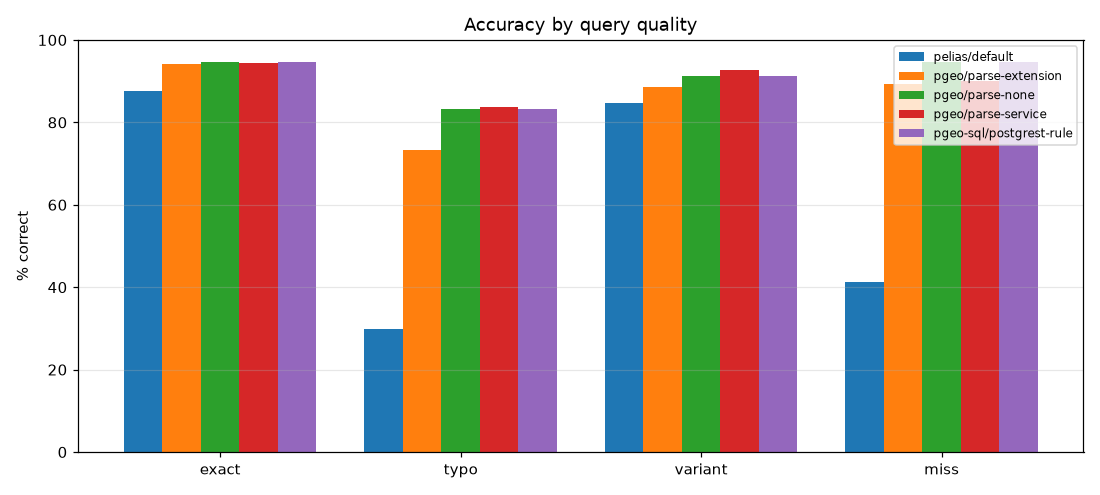
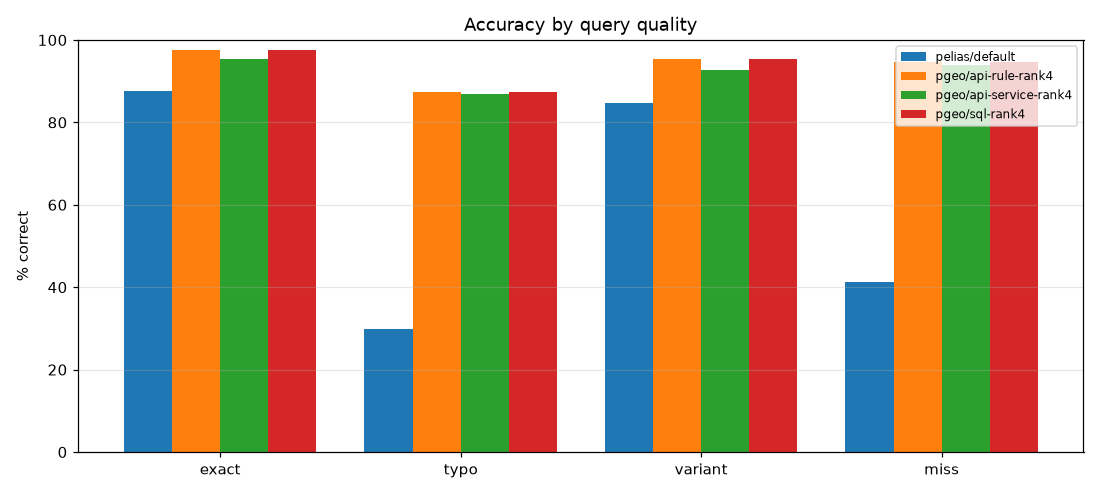
pgeo: town-aware name ranking (accuracy 93.1% -> 95.8%)
- bare town is a name target only when no name was parsed
- queried town resolved to a location: tie-break anchor and distance-based agreement
- admin results auto-agree only for bare-town queries
- ambiguity ignores venues that share a tied town's name

Venues 81% -> 94%, lakes/summits 86% -> 95% (exact). Fuzz F0 98%.
Also records the standard placeholder memory (0.8 GB) used by the Pelias reruns.

diff --git a/tests/load/run_matrix.py b/tests/load/run_matrix.py
@@ -41,7 +41,7 @@ BREAK_FACTOR = 5  # p95 above 5x target counts as broken
 # Memory limits per service (GB) for the "standard" and "floor" profiles. The trial run
 # (20260918-1814) OOM-killed pip at 0.4 GB (it grows under reverse load from ~0.36 GB) and
 # crash-looped interpolation at 1.9 GB (~1.8 GB working set), so the floor sits above that.
-MEM_STD = {"libpostal": 2.2, "interpolation": 2.3, "pip": 0.9, "placeholder": 0.5}
+MEM_STD = {"libpostal": 2.2, "interpolation": 2.3, "pip": 0.9, "placeholder": 0.8}
 # Full run 20260918-1834: placeholder was OOM-killed at 0.4 GB under load (C1 at 16 users,
 # C2 at 12), peaking ~408 MB, so the floor profile gives it 0.8 GB.
 MEM_FLOOR = {"libpostal": 2.0, "interpolation": 2.1, "pip": 0.7, "placeholder": 0.8}

diff --git a/docs/ACCURACY_RESULTS.md b/docs/ACCURACY_RESULTS.md
@@ -7,40 +7,36 @@ Test set: `tests/accuracy/cases.json` (seeded; ground truth from the source data
 | Engine / config | Correct | hit@1 | hit@5 | Median error (m) | No result | Conf. when right | Conf. when wrong | p50 ms |
 |---|---|---|---|---|---|---|---|---|
 | pelias/default | 76% | 77% | 84% | 0.0 | 5% | 0.983 | 0.87 | 13.3 |
-| pgeo/parse-extension | 90% | 89% | 96% | 0.0 | 4% | 0.937 | 0.907 | 79.1 |
-| pgeo/parse-none | 93% | 91% | 97% | 0.0 | 5% | 0.91 | 0.702 | 87.8 |
-| pgeo/parse-service | 93% | 91% | 96% | 0.0 | 4% | 0.898 | 0.581 | 88.5 |
-| pgeo-sql/postgrest-rule | 93% | 91% | 97% | 0.0 | 5% | 0.91 | 0.702 | 92.7 |
+| pgeo/api-rule-rank4 | 96% | 94% | 98% | 0.0 | 4% | 0.917 | 0.725 | 45.5 |
+| pgeo/api-service-rank4 | 94% | 92% | 97% | 0.0 | 4% | 0.915 | 0.609 | 44.4 |
+| pgeo/sql-rank4 | 96% | 94% | 98% | 0.0 | 4% | 0.917 | 0.725 | 39.6 |
 
 ## By query quality
 
 | Engine / config | exact | typo | variant | miss |
 |---|---|---|---|---|
 | pelias/default | 88% | 30% | 85% | 41% |
-| pgeo/parse-extension | 94% | 73% | 89% | 89% |
-| pgeo/parse-none | 95% | 83% | 91% | 95% |
-| pgeo/parse-service | 94% | 84% | 93% | 90% |
-| pgeo-sql/postgrest-rule | 95% | 83% | 91% | 95% |
+| pgeo/api-rule-rank4 | 98% | 87% | 95% | 95% |
+| pgeo/api-service-rank4 | 95% | 87% | 93% | 94% |
+| pgeo/sql-rank4 | 98% | 87% | 95% | 95% |
 
 ## By endpoint
 
 | Engine / config | search | structured | autocomplete | reverse |
 |---|---|---|---|---|
 | pelias/default | 66% | 97% | 87% | 100% |
-| pgeo/parse-extension | 87% | 100% | 93% | 100% |
-| pgeo/parse-none | 90% | 100% | 95% | 100% |
-| pgeo/parse-service | 90% | 100% | 95% | 100% |
-| pgeo-sql/postgrest-rule | 90% | 100% | 95% | 100% |
+| pgeo/api-rule-rank4 | 94% | 100% | 95% | 100% |
+| pgeo/api-service-rank4 | 92% | 100% | 95% | 100% |
+| pgeo/sql-rank4 | 94% | 100% | 95% | 100% |
 
 ## By kind of place
 
 | Engine / config | address | town | lake_summit | venue | zip | reverse_address | miss |
 |---|---|---|---|---|---|---|---|
 | pelias/default | 88% | 81% | 37% | 60% | 100% | 100% | 41% |
-| pgeo/parse-extension | 98% | 94% | 59% | 82% | 98% | 100% | 89% |
-| pgeo/parse-none | 98% | 96% | 77% | 80% | 98% | 100% | 95% |
-| pgeo/parse-service | 98% | 96% | 76% | 82% | 98% | 100% | 90% |
-| pgeo-sql/postgrest-rule | 98% | 96% | 77% | 80% | 98% | 100% | 95% |
+| pgeo/api-rule-rank4 | 98% | 96% | 87% | 94% | 98% | 100% | 95% |
+| pgeo/api-service-rank4 | 98% | 96% | 76% | 89% | 98% | 100% | 94% |
+| pgeo/sql-rank4 | 98% | 96% | 87% | 94% | 98% | 100% | 95% |
 
 ## Search detail (endpoint / query type)
 
@@ -53,65 +49,58 @@ Test set: `tests/accuracy/cases.json` (seeded; ground truth from the source data
 | pelias/default | search/typo | 198 | 30% | 30% | 40% | 5249.5 | 13% |
 | pelias/default | search/variant | 149 | 85% | 85% | 87% | 0.0 | 0% |
 | pelias/default | structured/exact | 150 | 97% | 97% | 97% | 0.0 | 0% |
-| pgeo/parse-extension | autocomplete/exact | 150 | 93% | 82% | 93% | 0.0 | 0% |
-| pgeo/parse-extension | reverse/exact | 200 | 100% | 100% | 100% | 0.0 | 0% |
-| pgeo/parse-extension | search/exact | 563 | 91% | 91% | 97% | 0.0 | 0% |
-| pgeo/parse-extension | search/miss | 150 | 89% | - | - | None | 34% |
-| pgeo/parse-extension | search/typo | 198 | 73% | 73% | 90% | 0.0 | 2% |
-| pgeo/parse-extension | search/variant | 149 | 89% | 89% | 94% | 0.0 | 3% |
-| pgeo/parse-extension | structured/exact | 150 | 100% | 100% | 100% | 0.0 | 0% |
-| pgeo/parse-none | autocomplete/exact | 150 | 95% | 81% | 95% | 0.0 | 0% |
-| pgeo/parse-none | reverse/exact | 200 | 100% | 100% | 100% | 0.0 | 0% |
-| pgeo/parse-none | search/exact | 563 | 91% | 91% | 96% | 0.0 | 0% |
-| pgeo/parse-none | search/miss | 150 | 95% | - | - | None | 49% |
-| pgeo/parse-none | search/typo | 198 | 83% | 83% | 92% | 0.0 | 2% |
-| pgeo/parse-none | search/variant | 149 | 91% | 91% | 97% | 0.0 | 0% |
-| pgeo/parse-none | structured/exact | 150 | 100% | 100% | 100% | 0.0 | 0% |
-| pgeo/parse-service | autocomplete/exact | 150 | 95% | 81% | 95% | 0.0 | 0% |
-| pgeo/parse-service | reverse/exact | 200 | 100% | 100% | 100% | 0.0 | 0% |
-| pgeo/parse-service | search/exact | 563 | 91% | 91% | 96% | 0.0 | 0% |
-| pgeo/parse-service | search/miss | 150 | 90% | - | - | None | 34% |
-| pgeo/parse-service | search/typo | 198 | 84% | 84% | 92% | 0.0 | 2% |
-| pgeo/parse-service | search/variant | 149 | 93% | 93% | 94% | 0.0 | 3% |
-| pgeo/parse-service | structured/exact | 150 | 100% | 100% | 100% | 0.0 | 0% |
-| pgeo-sql/postgrest-rule | autocomplete/exact | 150 | 95% | 81% | 95% | 0.0 | 0% |
-| pgeo-sql/postgrest-rule | reverse/exact | 200 | 100% | 100% | 100% | 0.0 | 0% |
-| pgeo-sql/postgrest-rule | search/exact | 563 | 91% | 91% | 96% | 0.0 | 0% |
-| pgeo-sql/postgrest-rule | search/miss | 150 | 95% | - | - | None | 49% |
-| pgeo-sql/postgrest-rule | search/typo | 198 | 83% | 83% | 92% | 0.0 | 2% |
-| pgeo-sql/postgrest-rule | search/variant | 149 | 91% | 91% | 97% | 0.0 | 0% |
-| pgeo-sql/postgrest-rule | structured/exact | 150 | 100% | 100% | 100% | 0.0 | 0% |
+| pgeo/api-rule-rank4 | autocomplete/exact | 150 | 95% | 81% | 95% | 0.0 | 0% |
+| pgeo/api-rule-rank4 | reverse/exact | 200 | 100% | 100% | 100% | 0.0 | 0% |
+| pgeo/api-rule-rank4 | search/exact | 563 | 97% | 97% | 99% | 0.0 | 0% |
+| pgeo/api-rule-rank4 | search/miss | 150 | 95% | - | - | None | 39% |
+| pgeo/api-rule-rank4 | search/typo | 198 | 87% | 87% | 95% | 0.0 | 2% |
+| pgeo/api-rule-rank4 | search/variant | 149 | 95% | 95% | 97% | 0.0 | 0% |
+| pgeo/api-rule-rank4 | structured/exact | 150 | 100% | 100% | 100% | 0.0 | 0% |
+| pgeo/api-service-rank4 | autocomplete/exact | 150 | 95% | 81% | 95% | 0.0 | 0% |
+| pgeo/api-service-rank4 | reverse/exact | 200 | 100% | 100% | 100% | 0.0 | 0% |
+| pgeo/api-service-rank4 | search/exact | 563 | 93% | 93% | 97% | 0.0 | 0% |
+| pgeo/api-service-rank4 | search/miss | 150 | 94% | - | - | None | 38% |
+| pgeo/api-service-rank4 | search/typo | 198 | 87% | 87% | 94% | 0.0 | 2% |
+| pgeo/api-service-rank4 | search/variant | 149 | 93% | 93% | 94% | 0.0 | 3% |
+| pgeo/api-service-rank4 | structured/exact | 150 | 100% | 100% | 100% | 0.0 | 0% |
+| pgeo/sql-rank4 | autocomplete/exact | 150 | 95% | 81% | 95% | 0.0 | 0% |
+| pgeo/sql-rank4 | reverse/exact | 200 | 100% | 100% | 100% | 0.0 | 0% |
+| pgeo/sql-rank4 | search/exact | 563 | 97% | 97% | 99% | 0.0 | 0% |
+| pgeo/sql-rank4 | search/miss | 150 | 95% | - | - | None | 39% |
+| pgeo/sql-rank4 | search/typo | 198 | 87% | 87% | 95% | 0.0 | 2% |
+| pgeo/sql-rank4 | search/variant | 149 | 95% | 95% | 97% | 0.0 | 0% |
+| pgeo/sql-rank4 | structured/exact | 150 | 100% | 100% | 100% | 0.0 | 0% |
 
 ```mermaid
 xychart-beta
     title "Correct % on exact queries"
-    x-axis ["pelias/default", "pgeo/parse-extension", "pgeo/parse-none", "pgeo/parse-service", "pgeo-sql/postgrest-rule"]
+    x-axis ["pelias/default", "pgeo/api-rule-rank4", "pgeo/api-service-rank4", "pgeo/sql-rank4"]
     y-axis "%" 0 --> 100
-    bar [88, 94, 95, 94, 95]
+    bar [88, 98, 95, 98]
 ```
 
 ```mermaid
 xychart-beta
     title "Correct % on typo queries"
-    x-axis ["pelias/default", "pgeo/parse-extension", "pgeo/parse-none", "pgeo/parse-service", "pgeo-sql/postgrest-rule"]
+    x-axis ["pelias/default", "pgeo/api-rule-rank4", "pgeo/api-service-rank4", "pgeo/sql-rank4"]
     y-axis "%" 0 --> 100
-    bar [30, 73, 83, 84, 83]
+    bar [30, 87, 87, 87]
 ```
 
 ```mermaid
 xychart-beta
     title "Correct % on variant queries"
-    x-axis ["pelias/default", "pgeo/parse-extension", "pgeo/parse-none", "pgeo/parse-service", "pgeo-sql/postgrest-rule"]
+    x-axis ["pelias/default", "pgeo/api-rule-rank4", "pgeo/api-service-rank4", "pgeo/sql-rank4"]
     y-axis "%" 0 --> 100
-    bar [85, 89, 91, 93, 91]
+    bar [85, 95, 93, 95]
 ```
 
 ```mermaid
 xychart-beta
     title "Correct % on miss queries"
-    x-axis ["pelias/default", "pgeo/parse-extension", "pgeo/parse-none", "pgeo/parse-service", "pgeo-sql/postgrest-rule"]
+    x-axis ["pelias/default", "pgeo/api-rule-rank4", "pgeo/api-service-rank4", "pgeo/sql-rank4"]
     y-axis "%" 0 --> 100
-    bar [41, 89, 95, 90, 95]
+    bar [41, 95, 94, 95]
 ```
 
 ## Accuracy vs fuzziness (rounds F0-F5)
@@ -121,40 +110,35 @@ Same 300 base queries at every level: F0 exact, F1 one typo, F2 two, F3 three + 
 | Engine / config | F0 | F1 | F2 | F3 | F4 | F5 |
 |---|---|---|---|---|---|---|
 | pelias/fuzz | 82% | 34% | 10% | 4% | 3% | 10% |
-| pgeo/fuzz-none | 94% | 84% | 73% | 46% | 44% | 49% |
-| pgeo/fuzz-service | 94% | 84% | 73% | 54% | 41% | 43% |
+| pgeo/fuzz-sql-rank4 | 98% | 87% | 74% | 46% | 45% | 49% |
 
 **address**
 
 | Engine / config | F0 | F1 | F2 | F3 | F4 | F5 |
 |---|---|---|---|---|---|---|
 | pelias/fuzz | 97% | 45% | 15% | 7% | 4% | 13% |
-| pgeo/fuzz-none | 99% | 95% | 88% | 47% | 42% | 59% |
-| pgeo/fuzz-service | 98% | 94% | 90% | 62% | 36% | 49% |
+| pgeo/fuzz-sql-rank4 | 99% | 95% | 88% | 47% | 42% | 59% |
 
 **town**
 
 | Engine / config | F0 | F1 | F2 | F3 | F4 | F5 |
 |---|---|---|---|---|---|---|
 | pelias/fuzz | 92% | 26% | 6% | 0% | 4% | 12% |
-| pgeo/fuzz-none | 98% | 74% | 44% | 30% | 40% | 30% |
-| pgeo/fuzz-service | 98% | 78% | 42% | 34% | 40% | 30% |
+| pgeo/fuzz-sql-rank4 | 98% | 78% | 48% | 30% | 42% | 34% |
 
 **lake_summit**
 
 | Engine / config | F0 | F1 | F2 | F3 | F4 | F5 |
 |---|---|---|---|---|---|---|
 | pelias/fuzz | 38% | 18% | 4% | 0% | 2% | 2% |
-| pgeo/fuzz-none | 84% | 70% | 72% | 60% | 52% | 38% |
-| pgeo/fuzz-service | 86% | 72% | 70% | 56% | 52% | 38% |
+| pgeo/fuzz-sql-rank4 | 98% | 84% | 72% | 56% | 54% | 38% |
 
 **venue**
 
 | Engine / config | F0 | F1 | F2 | F3 | F4 | F5 |
 |---|---|---|---|---|---|---|
 | pelias/fuzz | 72% | 22% | 6% | 2% | 0% | 4% |
-| pgeo/fuzz-none | 86% | 74% | 60% | 48% | 48% | 46% |
-| pgeo/fuzz-service | 86% | 74% | 58% | 46% | 48% | 44% |
+| pgeo/fuzz-sql-rank4 | 96% | 76% | 62% | 50% | 48% | 44% |
 
 ```mermaid
 xychart-beta
@@ -166,18 +150,10 @@ xychart-beta
 
 ```mermaid
 xychart-beta
-    title "pgeo/fuzz-none: % correct by fuzz level"
+    title "pgeo/fuzz-sql-rank4: % correct by fuzz level"
     x-axis [F0, F1, F2, F3, F4, F5]
     y-axis "%" 0 --> 100
-    line [94, 84, 73, 46, 44, 49]
-```
-
-```mermaid
-xychart-beta
-    title "pgeo/fuzz-service: % correct by fuzz level"
-    x-axis [F0, F1, F2, F3, F4, F5]
-    y-axis "%" 0 --> 100
-    line [94, 84, 73, 54, 41, 43]
+    line [98, 87, 74, 46, 45, 49]
 ```
 
 ![accuracy vs fuzz](accuracy/accuracy-vs-fuzz.png)

diff --git a/docs/PGEO_TUNING.md b/docs/PGEO_TUNING.md
@@ -47,3 +47,5 @@ Open items from this round:
 - Venues 80% and lakes/summits 77%: next failure analysis.
 | 2026-09-18 | Ambiguity-aware confidence: when several distinct places (~1 km grid) tie with the top confidence, their confidence is divided by 1 + 0.35 x (places - 1) | Wrong answers were mostly ties (70 of 85 wrong exact matches had 2+ equal candidates; 746 of 887 right ones were unique) | rule parser 92.7% -> 92.9%, misses 93% -> 95%; confidence right/wrong 0.94/0.90 -> **0.91/0.70** (Pelias 0.98/0.87) | none |
 | 2026-09-18 | Name targets drop a trailing state/country ("portlnd me" -> "portlnd"); name candidates tie-broken by distance to the focus point before the 40/60-row limits; +0.1 x whole-string similarity as a tie-breaker over word_similarity; lower-ranked hits capped at the reduced top confidence; autocomplete typo fallback deduped by label | "Portlnd, ME" returned Overture venues named "Portland, ME" and no town (the state word matched them); "main st" near Bangor: hundreds of exact "Main Street" rows were cut to an arbitrary 40 before the focus boost applied, so Bangor's never competed; every name containing "portland" tied on word_similarity | pure SQL 92.9% -> **93.1%** (venue typos 32 -> 34 of 42, lakes exact 70 -> 71; 4 fixed, 1 lost); fuzz F0-F5 94.3 / 85.0 / 74.0 / 46.0 / 44.7 / 49.0 (was 94.0 / 83.7 / 73.3 / 46.3 / 44.3 / 48.7); calibration 0.91 / 0.71 | p50 40 ms (unchanged) |
+| 2026-09-18 | Venue/lake failure analysis. (1) The bare town is a name target only when no name part was parsed; (2) the queried town is resolved to its location(s), which anchor same-name tie-breaks when there is no focus and count as town agreement by distance for non-address results (exp(-d/6 km)); (3) an admin result auto-agrees only for bare-town queries; (4) ambiguity: when a town is among the ties, only other towns count as rivals | 36 of 47 venue/lake exact failures shared two causes: "Subway, Cumberland Mills" matched the town exactly (conf 1.0) instead of the venue, and the query's town is often a village or nearest town, not the containing one ("Calvary Bible Church, Stratton" is in Eustis). Bare towns ("Portland, Maine") scored 0.59 because same-named venues counted as rivals | pure SQL 93.1% -> **95.8%**: venues exact 148 -> 172 of 183, venue typos 34 -> 40 of 42, lakes/summits exact 71 -> 79 of 83; towns -2 (two Maine names that exist twice, coin flips). Fuzz F0-F5 **98.0** / 87.0 / 74.3 / 46.0 / 45.0 / 49.0. FastAPI + rule parser identical (95.8%); libpostal service 93.9%. Confidence right/wrong 0.92 / 0.73 | p50 40 ms (unchanged) |
+
